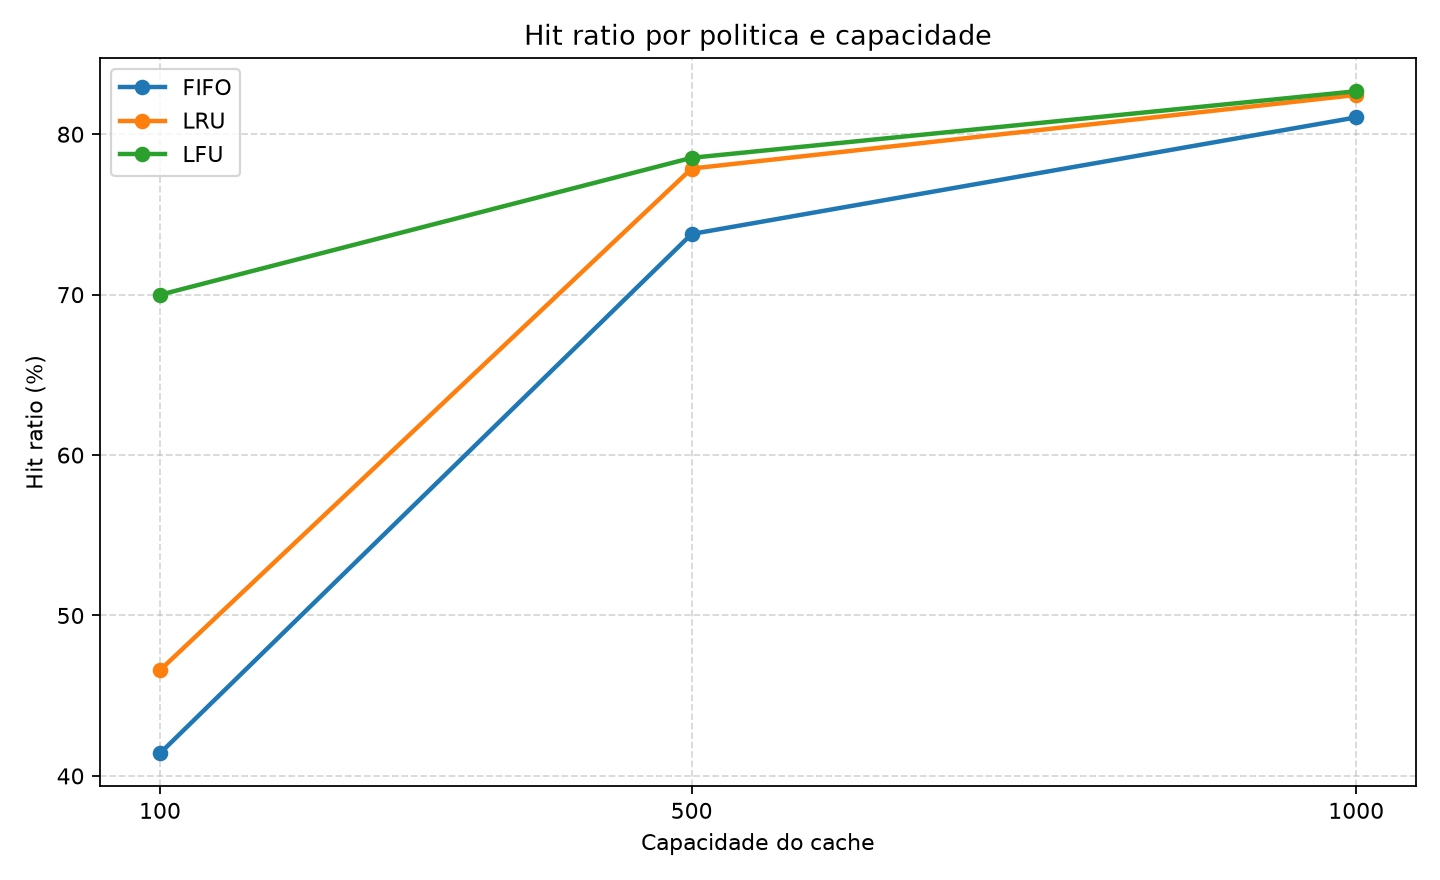
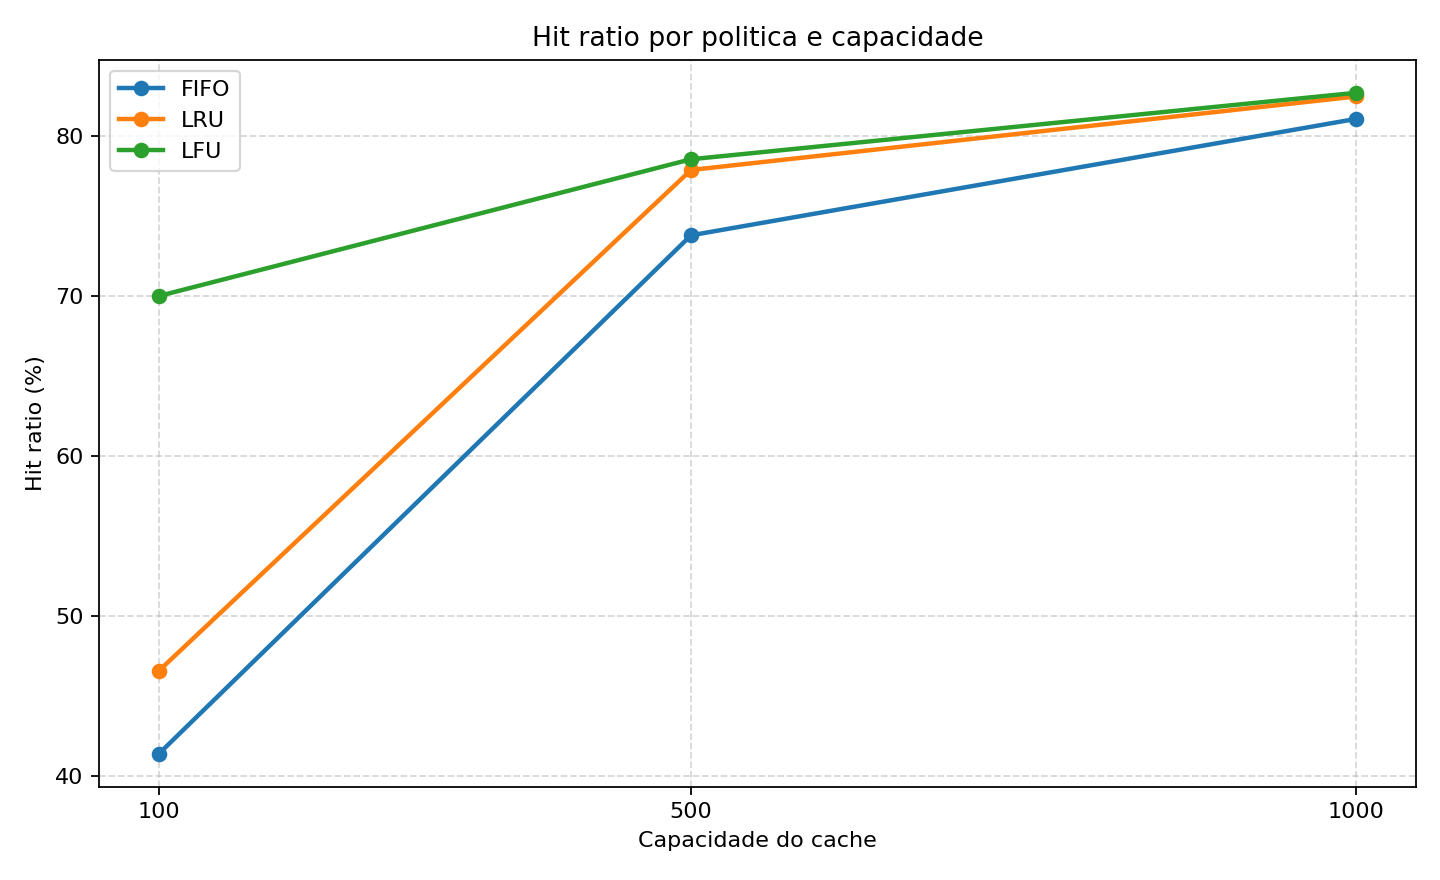
docs: aprimora relatorio experimental

diff --git a/scripts/generate_report.py b/scripts/generate_report.py
@@ -25,6 +25,27 @@ def best_policy(rows: list[dict[str, str]]) -> str:
     return f"{policy.upper()} apresentou a melhor média de hit ratio ({average:.2f}%)."
 
 
+def capacity_summary(rows: list[dict[str, str]]) -> str:
+    capacities = sorted({int(row["capacity"]) for row in rows})
+    first_capacity = capacities[0]
+    last_capacity = capacities[-1]
+    first_average = sum(
+        float(row["hit_ratio"]) for row in rows if int(row["capacity"]) == first_capacity
+    ) / len([row for row in rows if int(row["capacity"]) == first_capacity])
+    last_average = sum(
+        float(row["hit_ratio"]) for row in rows if int(row["capacity"]) == last_capacity
+    ) / len([row for row in rows if int(row["capacity"]) == last_capacity])
+    return (
+        f"A média de hit ratio aumentou de {first_average:.2f}% na capacidade {first_capacity} "
+        f"para {last_average:.2f}% na capacidade {last_capacity}."
+    )
+
+
+def add_paragraph(story: list[object], text: str, style: object, space: float = 0.22) -> None:
+    story.append(Paragraph(text, style))
+    story.append(Spacer(1, space * cm))
+
+
 def build_report(results_path: Path, chart_path: Path, output_path: Path) -> None:
     rows = load_results(results_path)
     output_path.parent.mkdir(parents=True, exist_ok=True)
@@ -44,36 +65,67 @@ def build_report(results_path: Path, chart_path: Path, output_path: Path) -> Non
     story.append(Paragraph("Data da entrega: 30 de junho de 2026", styles["Normal"]))
     story.append(Spacer(1, 0.4 * cm))
     story.append(Paragraph("Introdução", styles["Heading1"]))
-    story.append(
-        Paragraph(
-            "Este relatório apresenta a implementação e a avaliação experimental de um simulador de memória cache em Python. "
-            "Foram comparadas as políticas FIFO, LRU e LFU usando um trace sintético com 10.000 acessos.",
-            styles["BodyText"],
-        )
+    add_paragraph(
+        story,
+        "Este relatório apresenta a implementação e a avaliação experimental de um simulador de memória cache em Python. "
+        "O estudo compara as políticas FIFO, LRU e LFU a partir de um trace sintético com 10.000 acessos, seguindo um procedimento reproduzível por linha de comando.",
+        styles["BodyText"],
     )
     story.append(Paragraph("Descrição das políticas implementadas", styles["Heading1"]))
-    story.append(
-        Paragraph(
-            "FIFO remove o item inserido há mais tempo. LRU remove o item menos recentemente utilizado. "
-            "LFU remove o item com menor frequência de acesso e, em caso de empate, remove o item mais antigo entre os empatados.",
-            styles["BodyText"],
-        )
+    add_paragraph(
+        story,
+        "<b>FIFO:</b> remove o item inserido há mais tempo, sem considerar recência ou frequência de uso.<br/>"
+        "<b>LRU:</b> remove o item menos recentemente utilizado, priorizando itens acessados há menos tempo.<br/>"
+        "<b>LFU:</b> remove o item com menor frequência de acesso e, em caso de empate, remove o item mais antigo entre os empatados.",
+        styles["BodyText"],
+    )
+    story.append(Paragraph("Objetivo do experimento", styles["Heading1"]))
+    add_paragraph(
+        story,
+        "O objetivo foi medir como a variação da capacidade do cache influencia o hit ratio e comparar o comportamento das três políticas sob o mesmo conjunto de acessos. "
+        "A hipótese avaliada foi que capacidades maiores tendem a aumentar a taxa de acertos, mas que a intensidade desse ganho depende da política de substituição.",
+        styles["BodyText"],
     )
     story.append(Paragraph("Metodologia experimental", styles["Heading1"]))
-    story.append(
-        Paragraph(
-            "O trace possui uma distribuição não uniforme, com itens quentes, mornos e frios. "
-            "Essa configuração simula um workload com repetição frequente em parte dos itens e acessos ocasionais a itens menos populares.",
-            styles["BodyText"],
-        )
+    add_paragraph(
+        story,
+        "O experimento foi conduzido com um trace em CSV contendo uma coluna <b>item_id</b>. Cada linha representa uma requisição a um item. "
+        "O trace foi gerado artificialmente com distribuição não uniforme: itens quentes aparecem com maior probabilidade, itens mornos aparecem com frequência intermediária e itens frios aparecem ocasionalmente. "
+        "Essa escolha cria um workload com repetição suficiente para evidenciar diferenças entre políticas de substituição.",
+        styles["BodyText"],
+    )
+    add_paragraph(
+        story,
+        "<b>Variável independente:</b> capacidade máxima do cache.<br/>"
+        "<b>Variável dependente:</b> hit ratio obtido ao final da simulação.<br/>"
+        "<b>Variáveis controladas:</b> mesmo trace de entrada, mesma implementação do simulador, mesmas políticas avaliadas e mesma métrica de comparação.",
+        styles["BodyText"],
+    )
+    add_paragraph(
+        story,
+        "<b>Procedimento reproduzível:</b><br/>"
+        "1. Gerar ou reutilizar o arquivo <b>data/trace.csv</b> com 10.000 acessos.<br/>"
+        "2. Executar o simulador para cada política: FIFO, LRU e LFU.<br/>"
+        "3. Repetir cada política nas capacidades 100, 500 e 1000 itens.<br/>"
+        "4. Registrar total de acessos, hits, misses e hit ratio.<br/>"
+        "5. Consolidar os resultados em CSV e gerar o gráfico comparativo.",
+        styles["BodyText"],
     )
     story.append(Paragraph("Configuração dos experimentos", styles["Heading1"]))
-    story.append(
-        Paragraph(
-            "As políticas FIFO, LRU e LFU foram executadas com capacidades de 100, 500 e 1000 itens. "
-            "A métrica principal analisada foi o hit ratio, calculado como hits divididos pelo total de acessos.",
-            styles["BodyText"],
-        )
+    add_paragraph(
+        story,
+        "As políticas FIFO, LRU e LFU foram executadas com capacidades de 100, 500 e 1000 itens. "
+        "A métrica principal analisada foi o hit ratio, calculado como <b>hits / total de acessos * 100</b>. "
+        "Todas as execuções utilizaram o mesmo arquivo de entrada, permitindo comparação direta entre as políticas.",
+        styles["BodyText"],
+    )
+    add_paragraph(
+        story,
+        "Comandos utilizados: <br/>"
+        "<b>python3 scripts/generate_trace.py --output data/trace.csv --rows 10000</b><br/>"
+        "<b>python3 scripts/run_experiments.py --input data/trace.csv</b><br/>"
+        "<b>python3 scripts/generate_report.py</b>",
+        styles["BodyText"],
     )
 
     table_data = [["Política", "Capacidade", "Acessos", "Hits", "Misses", "Hit ratio (%)"]]
@@ -109,29 +161,35 @@ def build_report(results_path: Path, chart_path: Path, output_path: Path) -> Non
     story.append(Image(str(chart_path), width=16 * cm, height=9.5 * cm))
 
     story.append(Paragraph("Discussão dos resultados", styles["Heading1"]))
-    story.append(
-        Paragraph(
-            "O aumento da capacidade tende a elevar o hit ratio porque mais itens permanecem disponíveis no cache entre acessos repetidos. "
-            "As diferenças entre as políticas aparecem porque FIFO considera apenas a ordem de entrada, LRU privilegia recência e LFU privilegia frequência. "
-            + best_policy(rows),
-            styles["BodyText"],
-        )
+    add_paragraph(
+        story,
+        "O aumento da capacidade elevou o hit ratio porque mais itens puderam permanecer no cache entre acessos repetidos. "
+        + capacity_summary(rows)
+        + " As diferenças entre as políticas aparecem porque FIFO considera apenas a ordem de entrada, LRU privilegia recência e LFU privilegia frequência. "
+        + best_policy(rows),
+        styles["BodyText"],
     )
-    story.append(
-        Paragraph(
-            "O workload sintético favorece políticas capazes de preservar itens acessados repetidamente. "
-            "Como limitação, a simulação avalia apenas identificadores de itens e não considera latência, tamanho variável de objetos, escrita em memória ou hierarquias reais de cache.",
-            styles["BodyText"],
-        )
+    add_paragraph(
+        story,
+        "No workload utilizado, a presença de itens quentes favoreceu políticas capazes de preservar itens acessados repetidamente. "
+        "Por isso, a LFU apresentou vantagem, principalmente na menor capacidade, pois acumulou frequência para itens recorrentes e evitou removê-los cedo.",
+        styles["BodyText"],
+    )
+    story.append(Paragraph("Limitações", styles["Heading1"]))
+    add_paragraph(
+        story,
+        "A simulação avalia apenas identificadores de itens. Ela não modela latência, tamanho variável de objetos, custo de escrita, concorrência, pré-busca, hierarquias reais de cache ou efeitos de hardware. "
+        "Além disso, o trace é sintético; portanto, os resultados representam o comportamento desse workload específico e não devem ser generalizados sem novos traces.",
+        styles["BodyText"],
     )
 
     story.append(Paragraph("Conclusão", styles["Heading1"]))
-    story.append(
-        Paragraph(
-            "O simulador permitiu comparar experimentalmente FIFO, LRU e LFU. "
-            "Os resultados mostram que a capacidade do cache influencia diretamente a taxa de acertos e que a escolha da política deve considerar o padrão de acesso do workload.",
-            styles["BodyText"],
-        )
+    add_paragraph(
+        story,
+        "O simulador permitiu comparar experimentalmente FIFO, LRU e LFU usando um processo reproduzível. "
+        "Os resultados confirmam que a capacidade do cache influencia diretamente a taxa de acertos e que a escolha da política deve considerar o padrão de acesso do workload. "
+        "Para o trace analisado, a LFU apresentou o melhor desempenho médio.",
+        styles["BodyText"],
     )
     doc.build(story)
 

diff --git a/README.md b/README.md
@@ -78,6 +78,14 @@ Exemplo no formato solicitado pelo enunciado:
 python3 cache_simulator.py --input data/trace.csv --policy lru --capacity 100
 ```
 
+Para executar uma política específica e ver somente o resultado dela, troque o valor de `--policy`:
+
+```bash
+python3 cache_simulator.py --input data/trace.csv --policy fifo --capacity 100
+python3 cache_simulator.py --input data/trace.csv --policy lru --capacity 100
+python3 cache_simulator.py --input data/trace.csv --policy lfu --capacity 100
+```
+
 Políticas aceitas:
 
 - `fifo`
